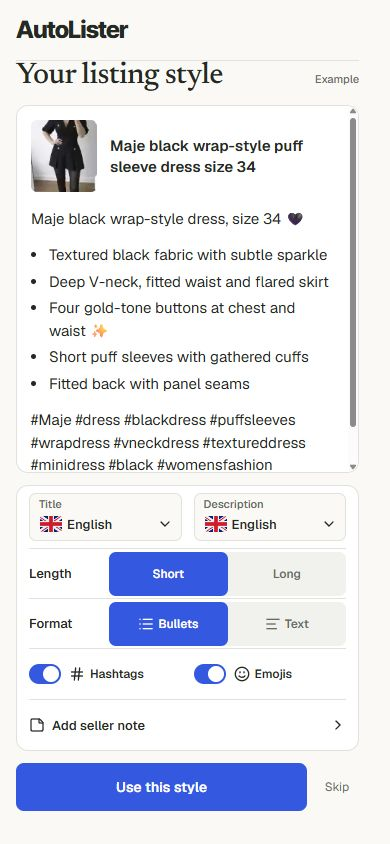
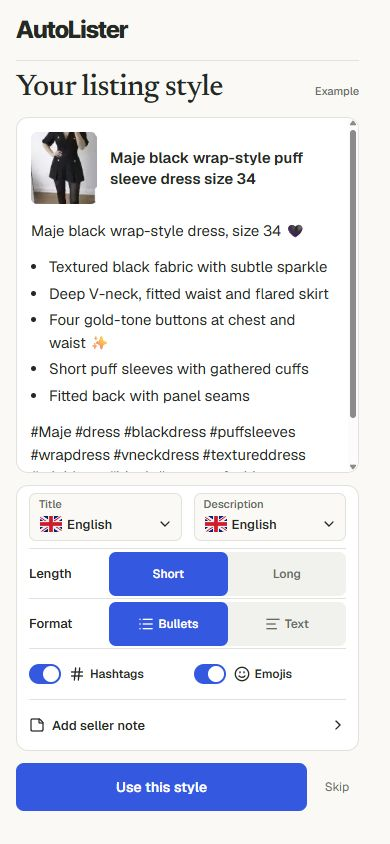
Separate onboarding heading from the shared header divider

diff --git a/src/styles/style-onboarding.css b/src/styles/style-onboarding.css
@@ -1,9 +1,9 @@
 .mobile-workspace-shell[data-style-setup="true"] .mobile-app-view,
 .mobile-workspace-shell[data-style-setup="true"] .mobile-workspace-header-actions,
 .mobile-workspace-shell[data-style-setup="true"] .mobile-workspace-footer { display: none; }
-.mobile-workspace-shell[data-style-setup="true"] { max-width: 1040px; }
-.mobile-workspace-shell[data-style-setup="true"] .mobile-workspace-main { padding-top: 0; margin-top: 0; }
-.style-setup { color: var(--mobile-ink); display: grid; grid-template-rows: auto minmax(48px, 1fr) auto auto; height: calc(100dvh - 94px); min-height: 0; max-width: 460px; margin: 0 auto; gap: 12px; }
+.mobile-workspace-shell[data-style-setup="true"] { --style-header-gap: 12px; max-width: 1040px; }
+.mobile-workspace-shell[data-style-setup="true"] .mobile-workspace-main { padding-top: var(--style-header-gap); margin-top: 0; }
+.style-setup { color: var(--mobile-ink); display: grid; grid-template-rows: auto minmax(48px, 1fr) auto auto; height: calc(100dvh - 94px - var(--style-header-gap)); min-height: 0; max-width: 460px; margin: 0 auto; gap: 12px; }
 .style-heading-row { display: flex; justify-content: space-between; align-items: baseline; gap: 12px; }
 .style-heading-row h1 { font: 500 30px/1.05 var(--app-display-font); letter-spacing: -.6px; margin: 0; }
 .style-heading-row h1:focus { outline: none; }
@@ -61,15 +61,15 @@ html:has(.style-note-dialog[open]), body:has(.style-note-dialog[open]) { overflo
 .style-note-dialog .style-primary { flex: 0 0 48px; }
 .style-note-dialog [role="status"] { color: var(--mobile-danger); font-size: 12px; margin: 0; }
 @media (max-width: 360px) { .style-setup { gap: 8px; } .style-languages { gap: 8px; } .style-row { grid-template-columns: 65px minmax(0,1fr); } .style-toggle { gap: 4px; } .style-extras { gap: 8px; } .style-languages .draft-select-trigger { font-size: 12px; } }
-@media (max-height: 670px) and (max-width: 600px) { .mobile-workspace-shell[data-style-setup="true"] { padding-top: max(8px,env(safe-area-inset-top)); padding-bottom: max(8px,env(safe-area-inset-bottom)); } .mobile-workspace-shell[data-style-setup="true"] .mobile-workspace-header { min-height: 44px; } .mobile-workspace-shell[data-style-setup="true"] .mobile-workspace-main { padding-bottom: 0; } .style-setup { gap: 8px; height: calc(100dvh - 65px); } .style-heading-row h1 { font-size: 25px; } .style-row, .style-toggle, .style-note-row { min-height: 45px; } .style-languages { padding-block: 3px; } }
-@media (min-width: 701px) { .style-setup { max-width: 940px; height: min(680px, calc(100dvh - 110px)); grid-template-columns: minmax(0,1fr) 340px; grid-template-rows: auto auto 1fr; gap: 20px 28px; } .style-heading-row { grid-column: 1/-1; } .style-example { grid-column: 1; grid-row: 2/4; } .style-controls { grid-column: 2; grid-row: 2; } .style-footer { grid-column: 2; grid-row: 3; align-self: start; } }
+@media (max-height: 670px) and (max-width: 600px) { .mobile-workspace-shell[data-style-setup="true"] { --style-header-gap: 8px; padding-top: max(8px,env(safe-area-inset-top)); padding-bottom: max(8px,env(safe-area-inset-bottom)); } .mobile-workspace-shell[data-style-setup="true"] .mobile-workspace-header { min-height: 44px; } .mobile-workspace-shell[data-style-setup="true"] .mobile-workspace-main { padding-bottom: 0; } .style-setup { gap: 8px; height: calc(100dvh - 65px - var(--style-header-gap)); } .style-heading-row h1 { font-size: 25px; } .style-row, .style-toggle, .style-note-row { min-height: 45px; } .style-languages { padding-block: 3px; } }
+@media (min-width: 701px) { .style-setup { max-width: 940px; height: min(680px, calc(100dvh - 110px - var(--style-header-gap))); grid-template-columns: minmax(0,1fr) 340px; grid-template-rows: auto auto 1fr; gap: 20px 28px; } .style-heading-row { grid-column: 1/-1; } .style-example { grid-column: 1; grid-row: 2/4; } .style-controls { grid-column: 2; grid-row: 2; } .style-footer { grid-column: 2; grid-row: 3; align-self: start; } }
 @media (prefers-reduced-motion: reduce) { .style-switch-track::after { transition: none; } }
 @media (max-width: 600px) and (max-height: 670px) { .mobile-workspace-shell[data-style-setup="true"] .mobile-workspace-header { padding-block: 0; } }
 @media (min-width: 601px) and (max-height: 600px) {
-  .mobile-workspace-shell[data-style-setup="true"] { padding-block: 8px; }
+  .mobile-workspace-shell[data-style-setup="true"] { --style-header-gap: 8px; padding-block: 8px; }
   .mobile-workspace-shell[data-style-setup="true"] .mobile-workspace-header { min-height: 44px; padding-block: 0; }
   .mobile-workspace-shell[data-style-setup="true"] .mobile-workspace-main { padding-bottom: 0; }
-  .style-setup { max-width: 940px; height: calc(100dvh - 65px); grid-template-columns: minmax(0,1fr) 310px; grid-template-rows: auto minmax(0,1fr) auto; gap: 8px 20px; }
+  .style-setup { max-width: 940px; height: calc(100dvh - 65px - var(--style-header-gap)); grid-template-columns: minmax(0,1fr) 310px; grid-template-rows: auto minmax(0,1fr) auto; gap: 8px 20px; }
   .style-heading-row { grid-column: 1; grid-row: 1; }
   .style-heading-row h1 { font-size: 25px; }
   .style-example { grid-column: 1; grid-row: 2/4; }

diff --git a/docs/growth-current-sprint.md b/docs/growth-current-sprint.md
@@ -2,6 +2,8 @@
 
 ## Listing style setup, October 15, 2026
 
+- Header follow-up: reproduced the owner's screenshot as a zero-pixel gap between the shared header divider and onboarding title. Add 8 to 12 pixels of scoped separation, taking the space from the scrollable example. All 18 languages on the shortest phone and seven additional sizes keep the primary action visible; the original zero-gap assertion fails and corrected measurements pass. Updated screenshot and measurements are in the flow audit.
+
 - Owner-approved integration of the reviewed style preview into the real web app. Eligible new accounts see a compact, translated, photo-based example once, then proceed directly to Add item. Existing accounts and saved preferences are preserved. Fresh web preferences use Short; extension defaults, model-pilot assignment and generation prompt text are unchanged.
 - The compiled frontend's local journey reached photo preparation, a stubbed draft response, saved review and exact copying of both fields. Checked independent languages, Short/Long, bullets/text, both extras off, empty/user-entered notes, dismissal, Skip, return visits and saved Long. Fixed the extras merge order and clipped actions on small translated screens. No paid generation, real signup, customer setting change or marketplace publication was used for QA.
 - All 18 languages fit 320 by 480 with visible primary actions and 44-pixel buttons. Additional phone, landscape, tablet and desktop sizes passed. Seven measured note-dialog cycles had no detected long tasks or page scrolling; physical-phone smoothness remains unmeasured. The style screen uses prepared copy and lazy loading with no new UI dependency.

diff --git a/docs/qa/style-onboarding-release-20261015.md b/docs/qa/style-onboarding-release-20261015.md
@@ -25,6 +25,12 @@ The owner approved publishing the reviewed style preview into the real web app a
 
 ## Authentication recommendation
 
+### Header-spacing correction
+
+The owner's screenshot exposed a visual issue missed by the initial fold checks: the onboarding heading started exactly at the shared header's divider, with zero separation. The negative font-space impression was persistent, not a loading-state artifact. Scope an 8-pixel gap to short screens and a 12-pixel gap to taller screens. Subtract the same gap from the example area's height so the main action remains visible.
+
+The original geometry assertion failed at zero pixels. After the correction, all 18 languages at 320 by 480 and seven additional viewport sizes have at least 8 pixels of header separation, no horizontal overflow and a primary action inside the viewport. The updated style screenshot above supersedes the original header appearance. [Header regression measurements](style-onboarding-release-20261015/header-checks.json).
+
 Keep Google plus passwordless email for this release. There is no evidence in this audit that a missing Apple button prevents activation. Apple web sign-in requires separate Services ID, app association and key configuration. It is a useful future option if real sign-in evidence warrants it, not a prerequisite for this browser release. Source: [Apple web setup](https://developer.apple.com/help/account/capabilities/configure-sign-in-with-apple-for-the-web).
 
 ## Verification and limits
